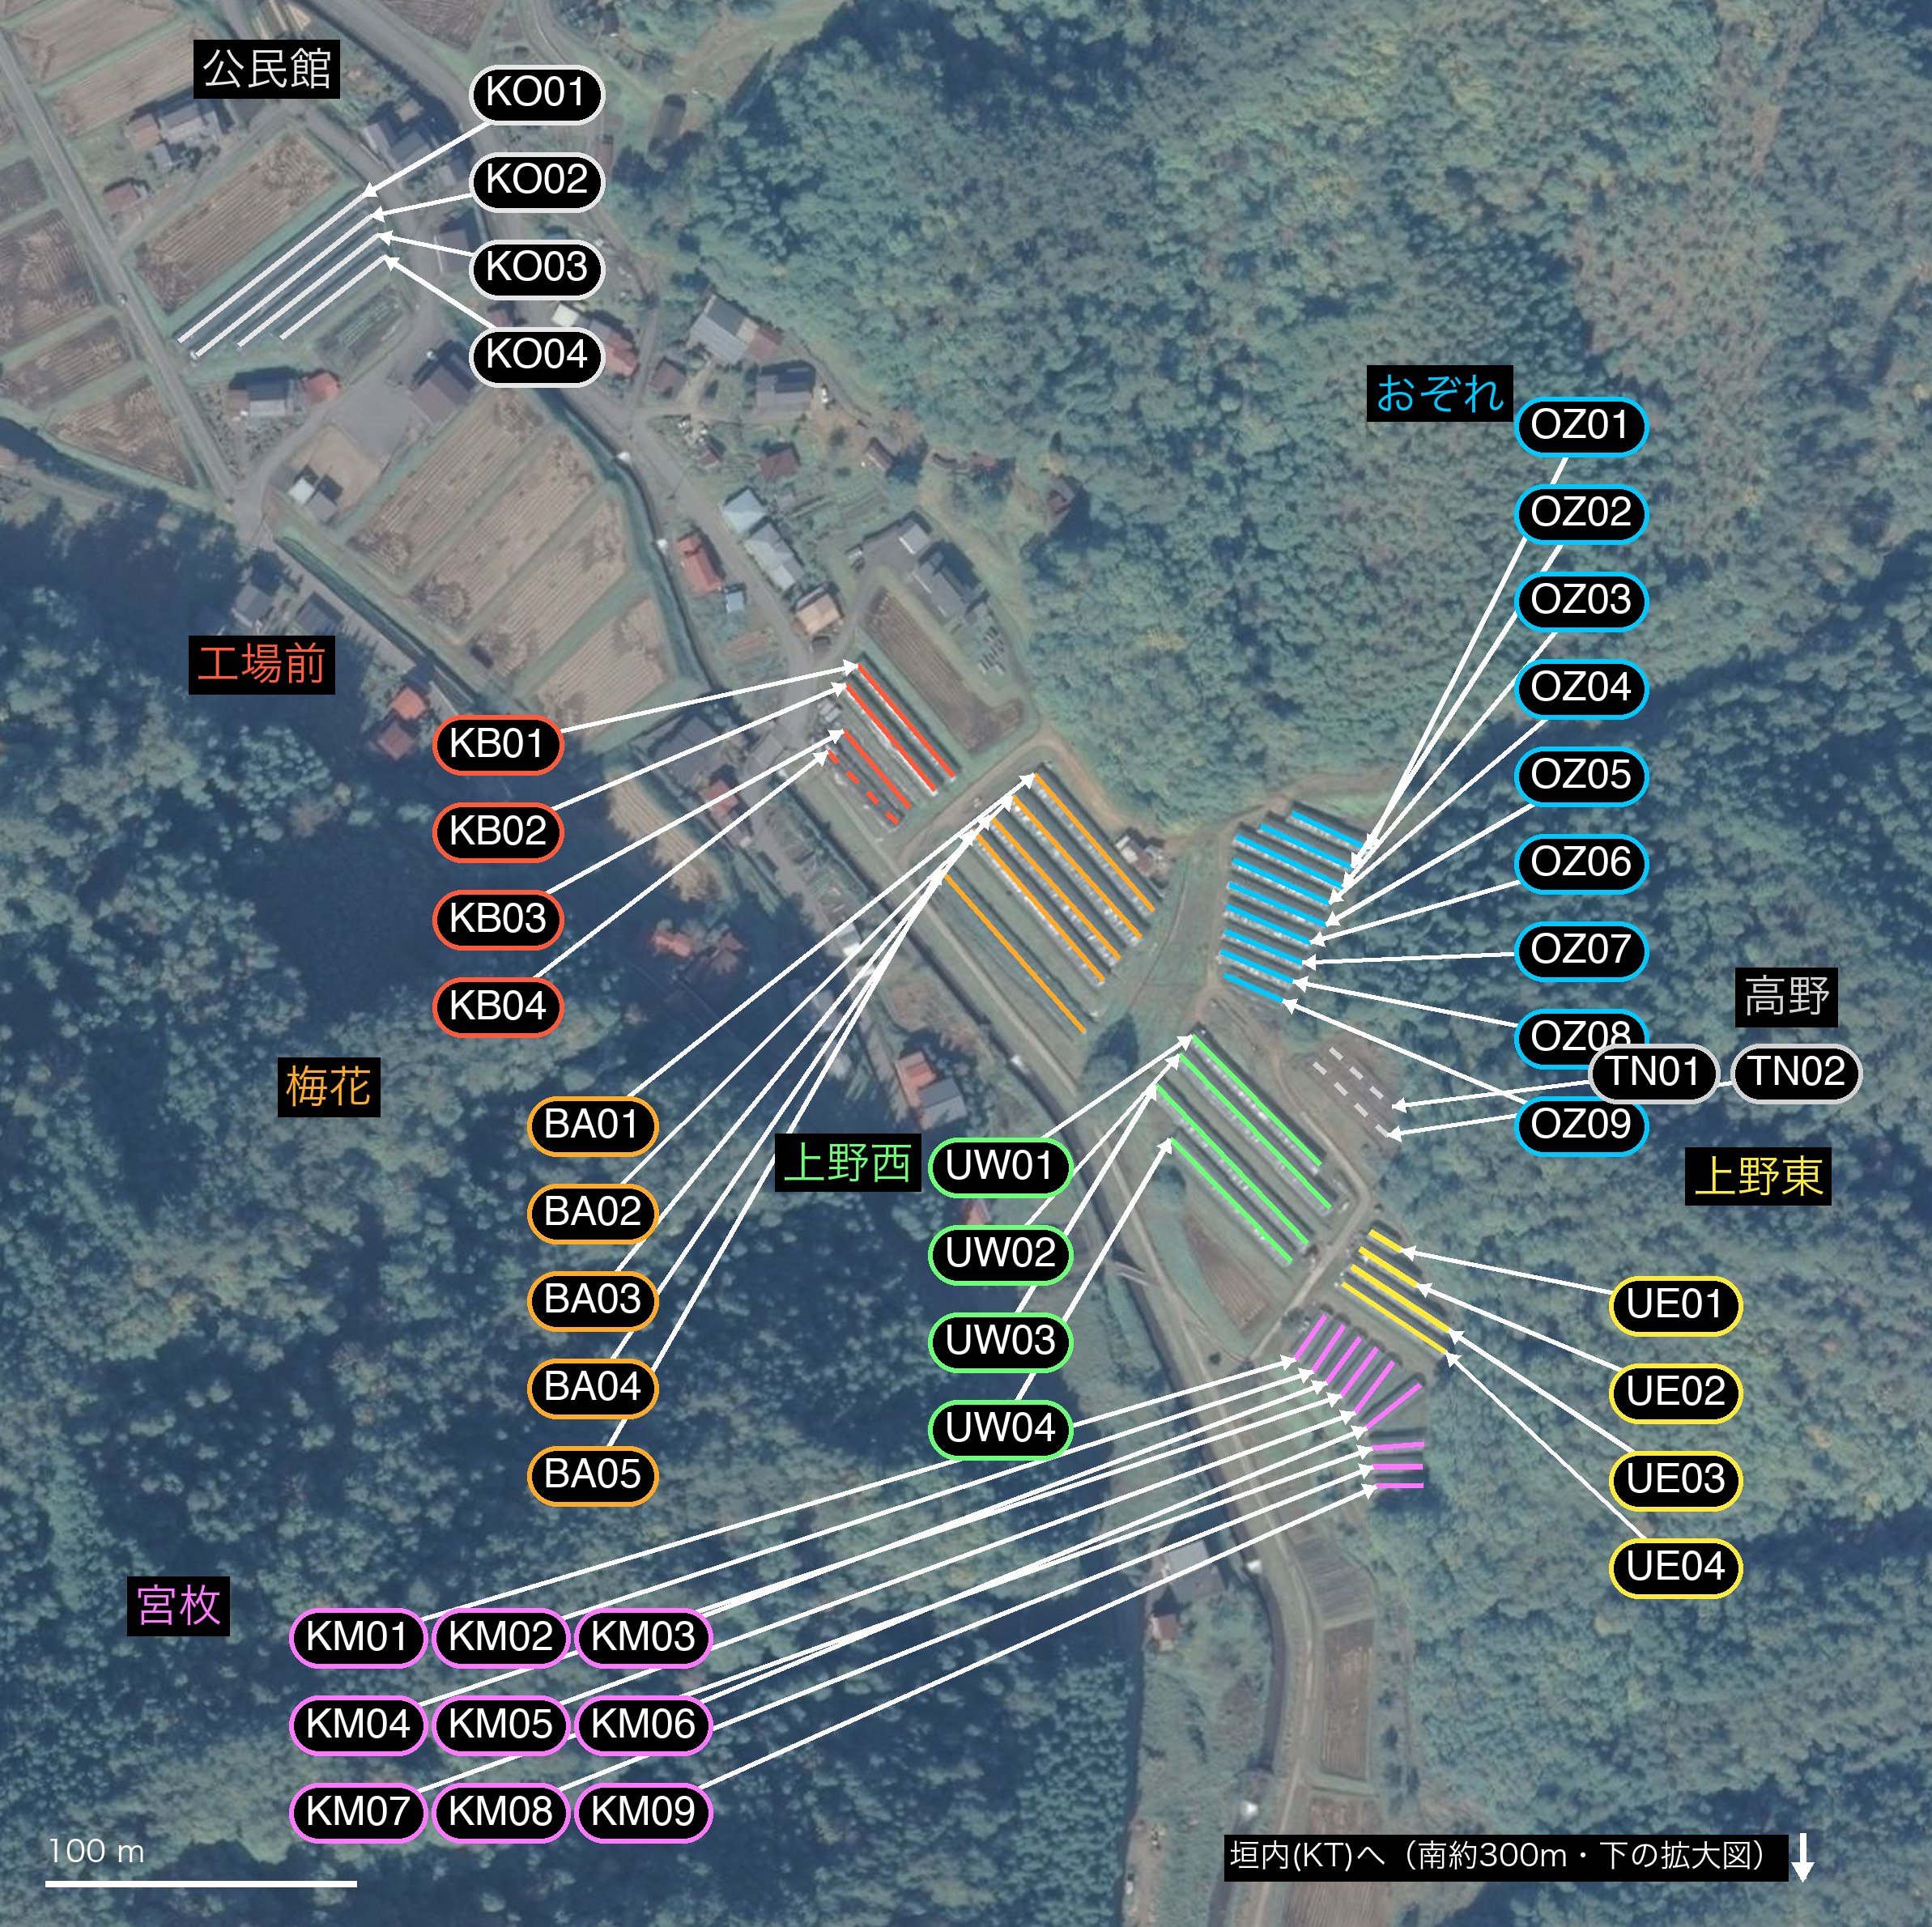
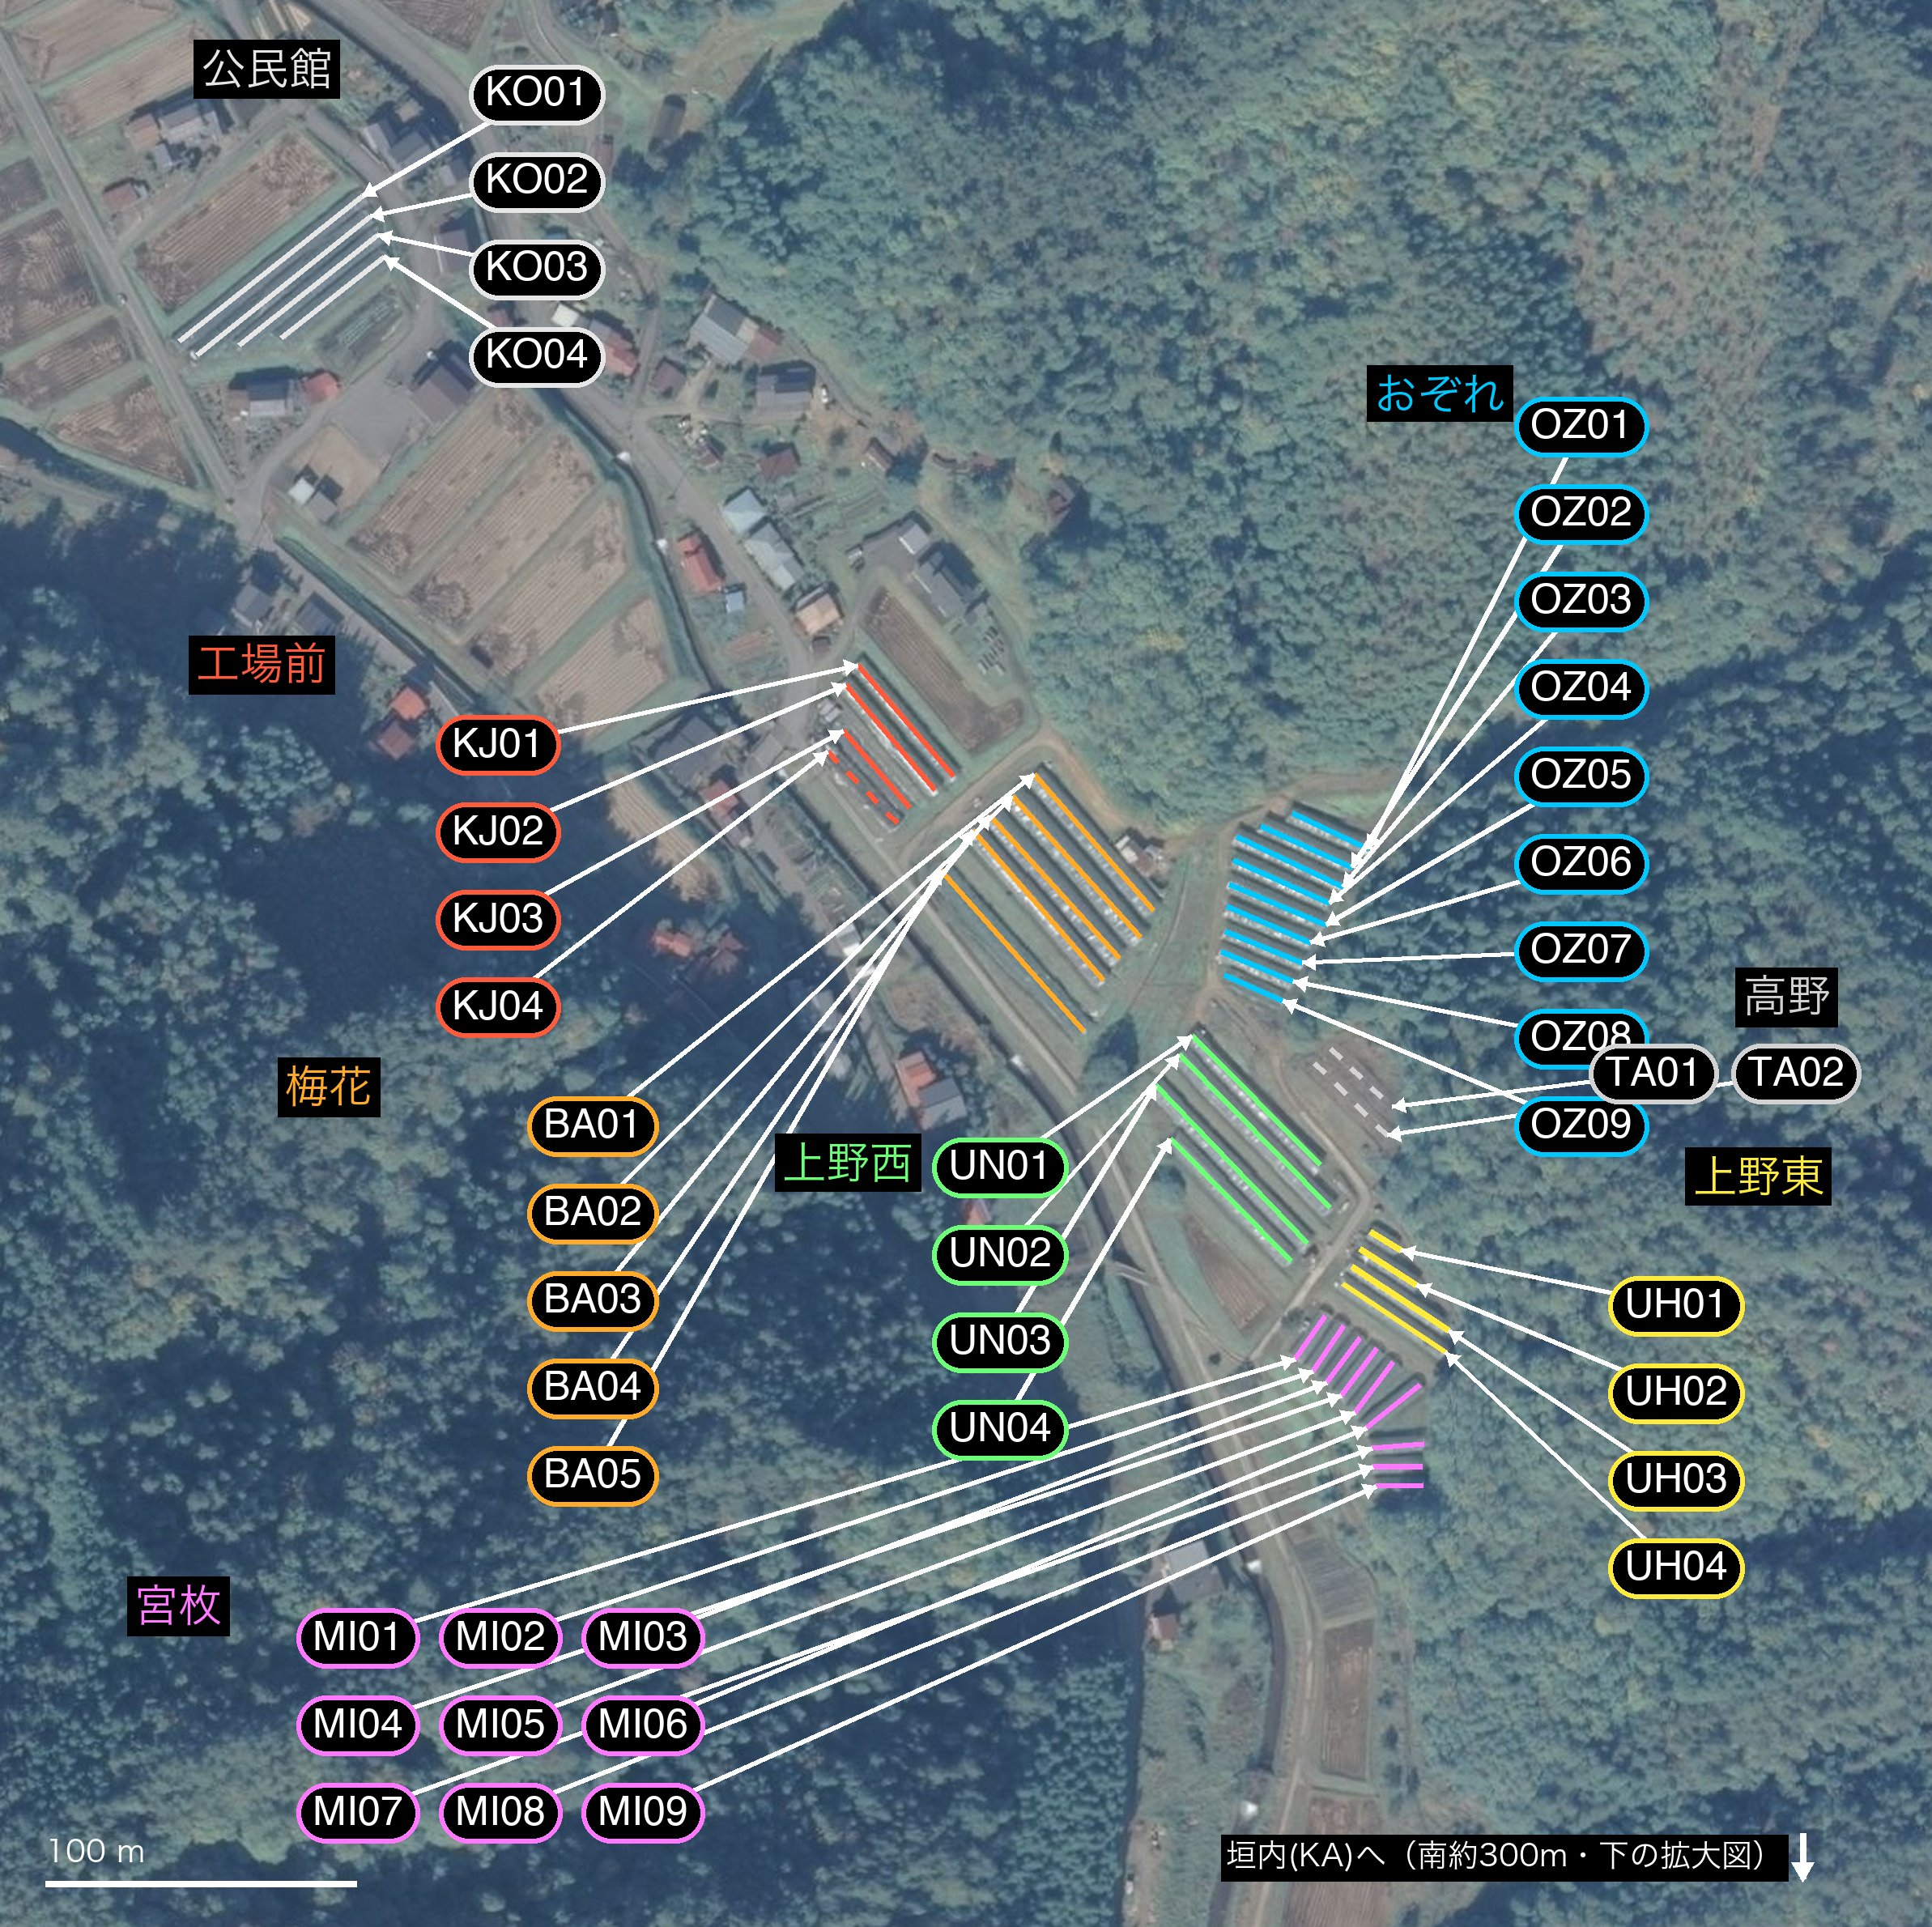
site-map: エリア記号を規則性のある体系に修正（KO/KJ/BA/OZ/TA/UN/UH/MI/KA）
- 命名規則: エリア名ローマ字の頭2文字（頭文字重複時は2文字目で区別: 工場前=KJ、上野は西/東の頭文字: UN/UH）
- 変更: KB→KJ, UW→UN, UE→UH, KM→MI, KT→KA, TN→TA（KO/BA/OZは変更なし）
- 通し番号01-63は内部番号としてデータに保持（geojsonのinternal_no、表の内部番号列）
- マップ2枚・house-coordinates.md・house-map.geojson・house-map.md・HISTORY.mdを更新

diff --git a/site-map/house-coordinates.md b/site-map/house-coordinates.md
@@ -1,10 +1,10 @@
 # 桐谷農場 ハウス座標マップ
 
-## 北側エリア（KO・KB・BA・OZ・TN・UW・UE・KM）
+## 北側エリア（KO・KJ・BA・OZ・TA・UN・UH・MI）
 
 ![北側マップ](house-map-coordinates.jpg)
 
-## 垣内エリア（KT01–22・北側マップの南 約300m）
+## 垣内エリア（KA01–22・北側マップの南 約300m）
 
 ![垣内マップ](house-map-coordinates-kakiuchi.jpg)
 
@@ -12,26 +12,28 @@
 
 # ハウス座標マスター（確定版・エリア記号＋連番）
 
-**号数＝エリア記号＋エリア内連番（2026-07-19確定）。番号は各エリアの北端から振る。**
-未設置3箇所（KB04・TN01・TN02）にも番号を確保。棟の位置・両端座標は農場主が航空写真上に作図（精度±2m、WGS84）。
+**号数＝エリア記号＋エリア内連番（例: OZ03、KA17）。番号は各エリアの北端から振る。**
+記号の命名規則: **エリア名ローマ字の頭2文字**（頭文字が重複する場合のみ2文字目で区別: 工場前=KJ、上野は西/東の頭文字: UN/UH）。
+通し番号01–63は**内部番号**としてデータに保持（システム内部キー用）。普段の呼称・作業指示はエリア記号＋連番を使う。
+未設置3箇所（KJ04・TA01・TA02）にも番号を確保。棟の位置・両端座標は農場主が航空写真上に作図（精度±2m、WGS84）。
 機械可読版は [house-map.geojson](house-map.geojson)。
 
-| 記号 | エリア | | 記号 | エリア | | 記号 | エリア |
-|---|---|---|---|---|---|---|---|
-| KO | 公民館 | | KB | 工場前 | | BA | 梅花 |
-| OZ | おぞれ | | TN | 高野 | | UW | 上野西 |
-| UE | 上野東 | | KM | 宮枚 | | KT | 垣内（上・中・下） |
+| 記号 | エリア | 読み | | 記号 | エリア | 読み | | 記号 | エリア | 読み |
+|---|---|---|---|---|---|---|---|---|---|---|
+| KO | 公民館 | Kominkan | | KJ | 工場前 | Kojo-mae | | BA | 梅花 | Baika |
+| OZ | おぞれ | Ozore | | TA | 高野 | Takano | | UN | 上野西 | Ueno-Nishi |
+| UH | 上野東 | Ueno-Higashi | | MI | 宮枚 | Miyahira | | KA | 垣内 | Kakiuchi |
 
-| 号数 | エリア | 状態 | 中心緯度 | 中心経度 | 長さ(m) | 端1(緯度,経度) | 端2(緯度,経度) | 通し番号(旧) | 初版号数(旧) |
+| 号数 | エリア | 状態 | 中心緯度 | 中心経度 | 長さ(m) | 端1(緯度,経度) | 端2(緯度,経度) | 内部番号 | 初版号数(旧) |
 |---|---|---|---|---|---|---|---|---|---|
 | KO01 | 公民館 | 稼働 | 36.231676 | 137.224768 | 75 | 36.231885, 137.225097 | 36.231467, 137.224440 | 01 | 036 |
 | KO02 | 公民館 | 稼働 | 36.231627 | 137.224814 | 71 | 36.231826, 137.225124 | 36.231427, 137.224505 | 02 | 037 |
 | KO03 | 公民館 | 稼働 | 36.231614 | 137.224903 | 57 | 36.231773, 137.225152 | 36.231456, 137.224654 | 03 | 038 |
 | KO04 | 公民館 | 稼働 | 36.231592 | 137.224990 | 42 | 36.231709, 137.225174 | 36.231475, 137.224805 | 04 | 039 |
-| KB01 | 工場前 | 稼働 | 36.230372 | 137.227040 | 47 | 36.230532, 137.226870 | 36.230211, 137.227211 | 05 | 001 |
-| KB02 | 工場前 | 稼働 | 36.230322 | 137.226987 | 44 | 36.230475, 137.226828 | 36.230170, 137.227146 | 06 | 002 |
-| KB03 | 工場前 | 稼働 | 36.230230 | 137.226936 | 33 | 36.230342, 137.226817 | 36.230119, 137.227055 | 07 | 003 |
-| KB04 | 工場前 | 未設置 | 36.230178 | 137.226887 | 32 | 36.230281, 137.226763 | 36.230074, 137.227011 | 08 | (新規・旧004枠?) |
+| KJ01 | 工場前 | 稼働 | 36.230372 | 137.227040 | 47 | 36.230532, 137.226870 | 36.230211, 137.227211 | 05 | 001 |
+| KJ02 | 工場前 | 稼働 | 36.230322 | 137.226987 | 44 | 36.230475, 137.226828 | 36.230170, 137.227146 | 06 | 002 |
+| KJ03 | 工場前 | 稼働 | 36.230230 | 137.226936 | 33 | 36.230342, 137.226817 | 36.230119, 137.227055 | 07 | 003 |
+| KJ04 | 工場前 | 未設置 | 36.230178 | 137.226887 | 32 | 36.230281, 137.226763 | 36.230074, 137.227011 | 08 | (新規・旧004枠?) |
 | BA01 | 梅花 | 稼働 | 36.230019 | 137.227716 | 58 | 36.230215, 137.227503 | 36.229823, 137.227929 | 09 | 005 |
 | BA02 | 梅花 | 稼働 | 36.229947 | 137.227653 | 61 | 36.230151, 137.227425 | 36.229744, 137.227881 | 10 | 006 |
 | BA03 | 梅花 | 稼働 | 36.229891 | 137.227575 | 62 | 36.230097, 137.227344 | 36.229685, 137.227806 | 11 | 007 |
@@ -46,65 +48,65 @@
 | OZ07 | おぞれ | 稼働 | 36.229716 | 137.228325 | 27 | 36.229761, 137.228187 | 36.229671, 137.228462 | 20 | 016 |
 | OZ08 | おぞれ | 稼働 | 36.229661 | 137.228301 | 25 | 36.229704, 137.228173 | 36.229617, 137.228430 | 21 | 017 |
 | OZ09 | おぞれ | 稼働 | 36.229597 | 137.228289 | 20 | 36.229635, 137.228185 | 36.229560, 137.228392 | 22 | 018 |
-| TN01 | 高野 | 未設置 | 36.229338 | 137.228674 | 27 | 36.229422, 137.228564 | 36.229255, 137.228783 | 23 | (新規) |
-| TN02 | 高野 | 未設置 | 36.229276 | 137.228636 | 33 | 36.229381, 137.228506 | 36.229171, 137.228766 | 24 | (新規) |
-| UW01 | 上野西 | 稼働 | 36.229274 | 137.228296 | 58 | 36.229459, 137.228068 | 36.229089, 137.228525 | 25 | 019 |
-| UW02 | 上野西 | 稼働 | 36.229184 | 137.228290 | 69 | 36.229405, 137.228021 | 36.228963, 137.228560 | 26 | 020 |
-| UW03 | 上野西 | 稼働 | 36.229089 | 137.228208 | 70 | 36.229317, 137.227936 | 36.228861, 137.228479 | 27 | 021 |
-| UW04 | 上野西 | 稼働 | 36.228986 | 137.228206 | 55 | 36.229163, 137.227990 | 36.228809, 137.228422 | 28 | 022 |
-| UE01 | 上野東 | 稼働 | 36.228866 | 137.228762 | 12 | 36.228893, 137.228707 | 36.228839, 137.228817 | 29 | 023 |
-| UE02 | 上野東 | 稼働 | 36.228793 | 137.228770 | 22 | 36.228845, 137.228669 | 36.228740, 137.228871 | 30 | 024 |
-| UE03 | 上野東 | 稼働 | 36.228700 | 137.228812 | 37 | 36.228792, 137.228638 | 36.228608, 137.228986 | 31 | 025 |
-| UE04 | 上野東 | 稼働 | 36.228644 | 137.228792 | 40 | 36.228744, 137.228608 | 36.228545, 137.228976 | 32 | 026 |
-| KM01 | 宮枚 | 稼働 | 36.228588 | 137.228490 | 17 | 36.228527, 137.228436 | 36.228650, 137.228544 | 33 | 027 |
-| KM02 | 宮枚 | 稼働 | 36.228557 | 137.228555 | 18 | 36.228491, 137.228500 | 36.228622, 137.228610 | 34 | 028 |
-| KM03 | 宮枚 | 稼働 | 36.228523 | 137.228609 | 18 | 36.228458, 137.228549 | 36.228588, 137.228669 | 35 | 029 |
-| KM04 | 宮枚 | 稼働 | 36.228489 | 137.228666 | 19 | 36.228421, 137.228601 | 36.228556, 137.228730 | 36 | 030 |
-| KM05 | 宮枚 | 稼働 | 36.228445 | 137.228719 | 20 | 36.228371, 137.228650 | 36.228518, 137.228787 | 37 | 031 |
-| KM06 | 宮枚 | 稼働 | 36.228390 | 137.228787 | 22 | 36.228328, 137.228690 | 36.228452, 137.228884 | 38 | 032 |
-| KM07 | 宮枚 | 稼働 | 36.228275 | 137.228805 | 17 | 36.228270, 137.228711 | 36.228280, 137.228898 | 39 | 033 |
-| KM08 | 宮枚 | 稼働 | 36.228216 | 137.228803 | 16 | 36.228216, 137.228715 | 36.228216, 137.228892 | 40 | 034 |
-| KM09 | 宮枚 | 稼働 | 36.228160 | 137.228811 | 15 | 36.228159, 137.228727 | 36.228161, 137.228894 | 41 | 035 |
-| KT01 | 垣内上 | 稼働 | 36.225601 | 137.228961 | 20 | 36.225606, 137.228852 | 36.225595, 137.229070 | 42 | 040 |
-| KT02 | 垣内上 | 稼働 | 36.225537 | 137.228997 | 24 | 36.225547, 137.228865 | 36.225527, 137.229130 | 43 | 041 |
-| KT03 | 垣内上 | 稼働 | 36.225481 | 137.229027 | 27 | 36.225490, 137.228875 | 36.225471, 137.229179 | 44 | 042 |
-| KT04 | 垣内上 | 稼働 | 36.225418 | 137.229075 | 30 | 36.225430, 137.228907 | 36.225407, 137.229242 | 45 | 043 |
-| KT05 | 垣内上 | 稼働 | 36.225365 | 137.229093 | 31 | 36.225375, 137.228921 | 36.225356, 137.229266 | 46 | 044 |
-| KT06 | 垣内上 | 稼働 | 36.225306 | 137.229127 | 33 | 36.225314, 137.228945 | 36.225297, 137.229309 | 47 | 045 |
-| KT07 | 垣内上 | 稼働 | 36.225252 | 137.229148 | 35 | 36.225264, 137.228956 | 36.225239, 137.229340 | 48 | 046 |
-| KT08 | 垣内上 | 稼働 | 36.225194 | 137.229165 | 35 | 36.225205, 137.228971 | 36.225183, 137.229360 | 49 | 047 |
-| KT09 | 垣内中 | 稼働 | 36.225107 | 137.229206 | 36 | 36.225120, 137.229004 | 36.225094, 137.229407 | 50 | 048 |
-| KT10 | 垣内中 | 稼働 | 36.225050 | 137.229215 | 37 | 36.225066, 137.229009 | 36.225035, 137.229422 | 51 | 049 |
-| KT11 | 垣内中 | 稼働 | 36.224998 | 137.229212 | 37 | 36.225013, 137.229006 | 36.224982, 137.229419 | 52 | 050 |
-| KT12 | 垣内中 | 稼働 | 36.224944 | 137.229218 | 35 | 36.224960, 137.229025 | 36.224928, 137.229410 | 53 | 051 |
-| KT13 | 垣内中 | 稼働 | 36.224884 | 137.229229 | 33 | 36.224895, 137.229048 | 36.224873, 137.229411 | 54 | 052 |
-| KT14 | 垣内中 | 稼働 | 36.224823 | 137.229234 | 33 | 36.224837, 137.229053 | 36.224809, 137.229416 | 55 | 053 |
-| KT15 | 垣内下 | 稼働 | 36.224716 | 137.229242 | 29 | 36.224731, 137.229080 | 36.224700, 137.229404 | 56 | 054 |
-| KT16 | 垣内下 | 稼働 | 36.224644 | 137.229254 | 30 | 36.224657, 137.229087 | 36.224632, 137.229420 | 57 | 055 |
-| KT17 | 垣内下 | 稼働 | 36.224536 | 137.229255 | 25 | 36.224547, 137.229117 | 36.224526, 137.229394 | 58 | 056 |
-| KT18 | 垣内下 | 稼働 | 36.224462 | 137.229274 | 29 | 36.224474, 137.229115 | 36.224450, 137.229433 | 59 | 057 |
-| KT19 | 垣内下 | 稼働 | 36.224364 | 137.229281 | 30 | 36.224380, 137.229114 | 36.224348, 137.229448 | 60 | 058 |
-| KT20 | 垣内下 | 稼働 | 36.224285 | 137.229310 | 35 | 36.224295, 137.229118 | 36.224275, 137.229503 | 61 | 059 |
-| KT21 | 垣内下 | 稼働 | 36.224177 | 137.229283 | 44 | 36.224189, 137.229036 | 36.224165, 137.229530 | 62 | 060 |
-| KT22 | 垣内下 | 稼働 | 36.224108 | 137.229279 | 45 | 36.224122, 137.229030 | 36.224093, 137.229528 | 63 | 061 |
+| TA01 | 高野 | 未設置 | 36.229338 | 137.228674 | 27 | 36.229422, 137.228564 | 36.229255, 137.228783 | 23 | (新規) |
+| TA02 | 高野 | 未設置 | 36.229276 | 137.228636 | 33 | 36.229381, 137.228506 | 36.229171, 137.228766 | 24 | (新規) |
+| UN01 | 上野西 | 稼働 | 36.229274 | 137.228296 | 58 | 36.229459, 137.228068 | 36.229089, 137.228525 | 25 | 019 |
+| UN02 | 上野西 | 稼働 | 36.229184 | 137.228290 | 69 | 36.229405, 137.228021 | 36.228963, 137.228560 | 26 | 020 |
+| UN03 | 上野西 | 稼働 | 36.229089 | 137.228208 | 70 | 36.229317, 137.227936 | 36.228861, 137.228479 | 27 | 021 |
+| UN04 | 上野西 | 稼働 | 36.228986 | 137.228206 | 55 | 36.229163, 137.227990 | 36.228809, 137.228422 | 28 | 022 |
+| UH01 | 上野東 | 稼働 | 36.228866 | 137.228762 | 12 | 36.228893, 137.228707 | 36.228839, 137.228817 | 29 | 023 |
+| UH02 | 上野東 | 稼働 | 36.228793 | 137.228770 | 22 | 36.228845, 137.228669 | 36.228740, 137.228871 | 30 | 024 |
+| UH03 | 上野東 | 稼働 | 36.228700 | 137.228812 | 37 | 36.228792, 137.228638 | 36.228608, 137.228986 | 31 | 025 |
+| UH04 | 上野東 | 稼働 | 36.228644 | 137.228792 | 40 | 36.228744, 137.228608 | 36.228545, 137.228976 | 32 | 026 |
+| MI01 | 宮枚 | 稼働 | 36.228588 | 137.228490 | 17 | 36.228527, 137.228436 | 36.228650, 137.228544 | 33 | 027 |
+| MI02 | 宮枚 | 稼働 | 36.228557 | 137.228555 | 18 | 36.228491, 137.228500 | 36.228622, 137.228610 | 34 | 028 |
+| MI03 | 宮枚 | 稼働 | 36.228523 | 137.228609 | 18 | 36.228458, 137.228549 | 36.228588, 137.228669 | 35 | 029 |
+| MI04 | 宮枚 | 稼働 | 36.228489 | 137.228666 | 19 | 36.228421, 137.228601 | 36.228556, 137.228730 | 36 | 030 |
+| MI05 | 宮枚 | 稼働 | 36.228445 | 137.228719 | 20 | 36.228371, 137.228650 | 36.228518, 137.228787 | 37 | 031 |
+| MI06 | 宮枚 | 稼働 | 36.228390 | 137.228787 | 22 | 36.228328, 137.228690 | 36.228452, 137.228884 | 38 | 032 |
+| MI07 | 宮枚 | 稼働 | 36.228275 | 137.228805 | 17 | 36.228270, 137.228711 | 36.228280, 137.228898 | 39 | 033 |
+| MI08 | 宮枚 | 稼働 | 36.228216 | 137.228803 | 16 | 36.228216, 137.228715 | 36.228216, 137.228892 | 40 | 034 |
+| MI09 | 宮枚 | 稼働 | 36.228160 | 137.228811 | 15 | 36.228159, 137.228727 | 36.228161, 137.228894 | 41 | 035 |
+| KA01 | 垣内上 | 稼働 | 36.225601 | 137.228961 | 20 | 36.225606, 137.228852 | 36.225595, 137.229070 | 42 | 040 |
+| KA02 | 垣内上 | 稼働 | 36.225537 | 137.228997 | 24 | 36.225547, 137.228865 | 36.225527, 137.229130 | 43 | 041 |
+| KA03 | 垣内上 | 稼働 | 36.225481 | 137.229027 | 27 | 36.225490, 137.228875 | 36.225471, 137.229179 | 44 | 042 |
+| KA04 | 垣内上 | 稼働 | 36.225418 | 137.229075 | 30 | 36.225430, 137.228907 | 36.225407, 137.229242 | 45 | 043 |
+| KA05 | 垣内上 | 稼働 | 36.225365 | 137.229093 | 31 | 36.225375, 137.228921 | 36.225356, 137.229266 | 46 | 044 |
+| KA06 | 垣内上 | 稼働 | 36.225306 | 137.229127 | 33 | 36.225314, 137.228945 | 36.225297, 137.229309 | 47 | 045 |
+| KA07 | 垣内上 | 稼働 | 36.225252 | 137.229148 | 35 | 36.225264, 137.228956 | 36.225239, 137.229340 | 48 | 046 |
+| KA08 | 垣内上 | 稼働 | 36.225194 | 137.229165 | 35 | 36.225205, 137.228971 | 36.225183, 137.229360 | 49 | 047 |
+| KA09 | 垣内中 | 稼働 | 36.225107 | 137.229206 | 36 | 36.225120, 137.229004 | 36.225094, 137.229407 | 50 | 048 |
+| KA10 | 垣内中 | 稼働 | 36.225050 | 137.229215 | 37 | 36.225066, 137.229009 | 36.225035, 137.229422 | 51 | 049 |
+| KA11 | 垣内中 | 稼働 | 36.224998 | 137.229212 | 37 | 36.225013, 137.229006 | 36.224982, 137.229419 | 52 | 050 |
+| KA12 | 垣内中 | 稼働 | 36.224944 | 137.229218 | 35 | 36.224960, 137.229025 | 36.224928, 137.229410 | 53 | 051 |
+| KA13 | 垣内中 | 稼働 | 36.224884 | 137.229229 | 33 | 36.224895, 137.229048 | 36.224873, 137.229411 | 54 | 052 |
+| KA14 | 垣内中 | 稼働 | 36.224823 | 137.229234 | 33 | 36.224837, 137.229053 | 36.224809, 137.229416 | 55 | 053 |
+| KA15 | 垣内下 | 稼働 | 36.224716 | 137.229242 | 29 | 36.224731, 137.229080 | 36.224700, 137.229404 | 56 | 054 |
+| KA16 | 垣内下 | 稼働 | 36.224644 | 137.229254 | 30 | 36.224657, 137.229087 | 36.224632, 137.229420 | 57 | 055 |
+| KA17 | 垣内下 | 稼働 | 36.224536 | 137.229255 | 25 | 36.224547, 137.229117 | 36.224526, 137.229394 | 58 | 056 |
+| KA18 | 垣内下 | 稼働 | 36.224462 | 137.229274 | 29 | 36.224474, 137.229115 | 36.224450, 137.229433 | 59 | 057 |
+| KA19 | 垣内下 | 稼働 | 36.224364 | 137.229281 | 30 | 36.224380, 137.229114 | 36.224348, 137.229448 | 60 | 058 |
+| KA20 | 垣内下 | 稼働 | 36.224285 | 137.229310 | 35 | 36.224295, 137.229118 | 36.224275, 137.229503 | 61 | 059 |
+| KA21 | 垣内下 | 稼働 | 36.224177 | 137.229283 | 44 | 36.224189, 137.229036 | 36.224165, 137.229530 | 62 | 060 |
+| KA22 | 垣内下 | 稼働 | 36.224108 | 137.229279 | 45 | 36.224122, 137.229030 | 36.224093, 137.229528 | 63 | 061 |
 
 ## エリア別サマリー
 
 | エリア | 号数 | 稼働 | 未設置 | 中心緯度 | 中心経度 |
 |---|---|---|---|---|---|
 | 公民館 | KO01–KO04 | 4 | 0 | 36.231627 | 137.224869 |
-| 工場前 | KB01–KB04 | 3 | 1 | 36.230275 | 137.226963 |
+| 工場前 | KJ01–KJ04 | 3 | 1 | 36.230275 | 137.226963 |
 | 梅花 | BA01–BA05 | 5 | 0 | 36.229880 | 137.227576 |
 | おぞれ | OZ01–OZ09 | 9 | 0 | 36.229836 | 137.228386 |
-| 高野 | TN01–TN02 | 0 | 2 | 36.229307 | 137.228655 |
-| 上野西 | UW01–UW04 | 4 | 0 | 36.229133 | 137.228250 |
-| 上野東 | UE01–UE04 | 4 | 0 | 36.228751 | 137.228784 |
-| 宮枚 | KM01–KM09 | 9 | 0 | 36.228405 | 137.228694 |
-| 垣内 | KT01–KT22 | 22 | 0 | 36.224921 | 137.229186 |
+| 高野 | TA01–TA02 | 0 | 2 | 36.229307 | 137.228655 |
+| 上野西 | UN01–UN04 | 4 | 0 | 36.229133 | 137.228250 |
+| 上野東 | UH01–UH04 | 4 | 0 | 36.228751 | 137.228784 |
+| 宮枚 | MI01–MI09 | 9 | 0 | 36.228405 | 137.228694 |
+| 垣内 | KA01–KA22 | 22 | 0 | 36.224921 | 137.229186 |
 
 ## メモ
 
-- 垣内の内訳: 上=KT01–08 ／ 中=KT09–14 ／ 下=KT15–22（境界は棟間ギャップで確定）。
-- 未設置3箇所は今後の増設を考慮した番号確保（KB04=工場前南端、TN01・TN02=高野）。
-- 旧体系との対応は「通し番号(旧)」（01–63、2026-07-19朝版）と「初版号数(旧)」（001–061、2026-07-06版）列を参照。
+- 垣内の内訳: 上=KA01–08 ／ 中=KA09–14 ／ 下=KA15–22（境界は棟間ギャップで確定）。
+- 未設置3箇所は今後の増設を考慮した番号確保（KJ04=工場前南端、TA01・TA02=高野）。
+- 内部番号=北から通し01–63（2026-07-19朝版）。初版号数(旧)=001–061（2026-07-06版）。
 - 面積概算は 長さ×幅6m（幅は現地実測で更新推奨）。おぞれ右/左の号数境界は未確認のまま。

diff --git a/site-map/house-map.md b/site-map/house-map.md
@@ -7,12 +7,12 @@
 - 地図画像（名前入り・方角つき）: [house-map-named.png](house-map-named.png)（北が上）
 - ベース航空写真（国土地理院・注記なし）: [aerial.png](aerial.png)
 - 公民館座標: 36.231611, 137.224879
-- 号数入り座標マップ（農場主作図・確定）: [house-map-coordinates.jpg](house-map-coordinates.jpg)（北側 KO/KB/BA/OZ/TN/UW/UE/KM）／ [house-map-coordinates-kakiuchi.jpg](house-map-coordinates-kakiuchi.jpg)（垣内 KT01–22）
+- 号数入り座標マップ（農場主作図・確定）: [house-map-coordinates.jpg](house-map-coordinates.jpg)（北側 KO/KJ/BA/OZ/TA/UN/UH/MI）／ [house-map-coordinates-kakiuchi.jpg](house-map-coordinates-kakiuchi.jpg)（垣内 KA01–22）
 - 全棟の緯度経度一覧: [house-coordinates.md](house-coordinates.md) ／ GISデータ: [house-map.geojson](house-map.geojson)
 
 > **2026-07-19 採番改定（第2版）**: 号数を**エリア記号＋エリア内連番**に改定（番号は各エリア北端から）。
-> 記号: KO=公民館 KB=工場前 BA=梅花 OZ=おぞれ TN=高野 UW=上野西 UE=上野東 KM=宮枚 KT=垣内。
-> **全63番・稼働60棟・未設置3（KB04, TN01, TN02）**。
+> 記号: KO=公民館 KJ=工場前 BA=梅花 OZ=おぞれ TA=高野 UN=上野西 UH=上野東 MI=宮枚 KA=垣内。
+> **全63番・稼働60棟・未設置3（KJ04, TA01, TA02）**。
 > 旧号数（通し01–63版・初版001–061版）との対応は [house-coordinates.md](house-coordinates.md) を参照。
 > 全て**ハウス（露地畑は無し）**。ベースは国土地理院航空写真（撮影時期はGoogleと異なる）。
 
@@ -23,17 +23,17 @@
 | エリア | ハウス号数 | 稼働棟数 | 主な作物 | 電源 | 電波 | メモ |
 |---|---|---|---|---|---|---|
 | 公民館 | KO01–KO04 | 4 |  |  |  | 公民館の横のハウス |
-| 工場前 | KB01–KB04 | 3 |  |  |  | KB04＝未設置（予定地） |
+| 工場前 | KJ01–KJ04 | 3 |  |  |  | KJ04＝未設置（予定地） |
 | 梅花 | BA01–BA05 | 5 |  |  |  |  |
 | おぞれ | OZ01–OZ09 | 9 |  |  |  | **右 / 左**に分かれる |
-| 高野 | TN01–TN02 | 0 |  |  |  | 未設置。おぞれ南西・上野東の北 |
-| 上野西 | UW01–UW04 | 4 |  |  |  |  |
-| 上野東 | UE01–UE04 | 4 |  |  |  |  |
-| 宮枚 | KM01–KM09 | 9 |  |  |  |  |
-| 垣内上 | KT01–KT08 | 8 |  |  |  |  |
-| 垣内中 | KT09–KT14 | 6 |  |  |  |  |
-| 垣内下 | KT15–KT22 | 8 |  |  |  |  |
-| **合計** | **63番** | **60** |  |  |  | 未設置3（KB04, TN01, TN02） |
+| 高野 | TA01–TA02 | 0 |  |  |  | 未設置。おぞれ南西・上野東の北 |
+| 上野西 | UN01–UN04 | 4 |  |  |  |  |
+| 上野東 | UH01–UH04 | 4 |  |  |  |  |
+| 宮枚 | MI01–MI09 | 9 |  |  |  |  |
+| 垣内上 | KA01–KA08 | 8 |  |  |  |  |
+| 垣内中 | KA09–KA14 | 6 |  |  |  |  |
+| 垣内下 | KA15–KA22 | 8 |  |  |  |  |
+| **合計** | **63番** | **60** |  |  |  | 未設置3（KJ04, TA01, TA02） |
 
 ## 概略配置（地図・北が上）
 
@@ -41,26 +41,26 @@
 北（桐谷公民館側）
  ├ 公民館 KO (01–04)   ← 公民館の横。集落の北西
  │   （少し南東へ）
- ├ 工場前 KB (01–04)   KB04=未設置
+ ├ 工場前 KJ (01–04)   KJ04=未設置
  ├ 梅花   BA (01–05)
  ├ おぞれ OZ (01–09)  右/左
- ├ 高野   TN (01–02)  未設置
- ├ 上野西 UW (01–04)
- ├ 上野東 UE (01–04)
- └ 宮枚   KM (01–09)
+ ├ 高野   TA (01–02)  未設置
+ ├ 上野西 UN (01–04)
+ ├ 上野東 UH (01–04)
+ └ 宮枚   MI (01–09)
  │
  │（森・畑で分断・南へ）
  │
- ├ 垣内上 KT (01–08)
- ├ 垣内中 KT (09–14)
- └ 垣内下 KT (15–22)
+ ├ 垣内上 KA (01–08)
+ ├ 垣内中 KA (09–14)
+ └ 垣内下 KA (15–22)
 南
 ```
 
 ## 労務ループでの使い方
 
-- 作業指示は **ハウス号数** で場所を特定（例:「OZ03 で誘引」「垣内下 KT15–22 全棟 収穫」）。
-- 号数は「エリア記号＋連番」で一意（例: OZ03、KT17）。記号でエリアが即分かり、そのまま進捗・写真・ダッシュボードのキーになる。
+- 作業指示は **ハウス号数** で場所を特定（例:「OZ03 で誘引」「垣内下 KA15–22 全棟 収穫」）。
+- 号数は「エリア記号＋連番」で一意（例: OZ03、KA17）。記号でエリアが即分かり、そのまま進捗・写真・ダッシュボードのキーになる。
 - エリア名は人間の呼びやすさ用、号数はシステムの一意キー、と二本立て。
 
 ## まだ埋めたいこと

diff --git a/HISTORY.md b/HISTORY.md
@@ -9,8 +9,8 @@
 
 ### 決定の核
 - 通し番号01–63は廃止し、**エリア記号＋エリア内連番**に変更（ユーザー決定）。
-  記号: KO=公民館 KB=工場前 BA=梅花 OZ=おぞれ TN=高野 UW=上野西 UE=上野東 KM=宮枚 KT=垣内。
-- 番号は各エリアの北端から。未設置3箇所は KB04・TN01・TN02。
+  記号: KO=公民館 KJ=工場前 BA=梅花 OZ=おぞれ TA=高野 UN=上野西 UH=上野東 MI=宮枚 KA=垣内（命名規則: ローマ字頭2文字、頭文字重複時は2文字目で区別、上野は西/東の頭文字）。
+- 番号は各エリアの北端から。未設置3箇所は KJ04・TA01・TA02。通し番号01–63は内部番号としてデータに保持。
 - 旧2体系（通し01–63、初版001–061）との対応表は `site-map/house-coordinates.md` に保持。
 - 地図はラベルをピル型にし、矢印の引き出し線が番号の上を通らない描画に変更。
 